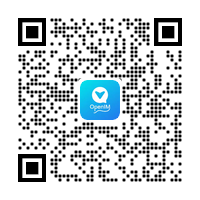
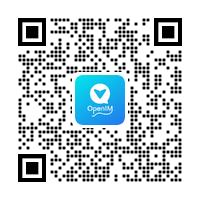
fix: pc update

Changed region(s): [[0.09, 0.09, 0.93, 0.93], [0.81, 0.75, 0.93, 0.9]]

diff --git a/docs/demo/download_demo.md b/docs/demo/download_demo.md
@@ -20,13 +20,13 @@
     </div>
     <div style="display: flex; flex-direction: column; align-items: center;">
       <h2>Electron PC</h2>
-      <p style="text-align: center;">扫码或<a href="https://pan.baidu.com/s/16MW36rKVFtDCBewMOdD0pA" target="_blank">点击此处下载</a></p>
+      <p style="text-align: center;">扫码或<a href="https://pan.baidu.com/s/1yDE7NlHsYQfgL6J3VtsmcA" target="_blank">点击此处下载</a></p>
       <img
         src="images/pc_qr.png"
         width="200px"
         height="200px"
       />
-      <b>提取码：jd15</b>
+      <b>提取码：tthq</b>
     </div>
     <div style="display: flex; flex-direction: column; align-items: center;">
       <h2>PC Web</h2>

diff --git a/docs/client_doc/web_doc.md b/docs/client_doc/web_doc.md
@@ -285,7 +285,7 @@
   }
   const options:AdvancedMsgParams = {
     messageEntityList:[entity],
-    textStr:""
+    text:""
   }
   
   openIM.createAdvancedTextMessage(options).then(({ data })=>{
@@ -299,7 +299,7 @@
 
   | Name        | Type     | Required | Description        |
   | ----------- | -------- | -------- | ------------------ |
-  | textStr | string | true     | 消息文字内容 |
+  | text | string | true     | 消息文字内容 |
   | messageEntityList | MessageEntity[] | false     | 自定义@内容列表 |
   | MessageEntity->type | string | true | 自定义@类型 |
   | MessageEntity->offset | number | true | 自定义内容起始位置 |
